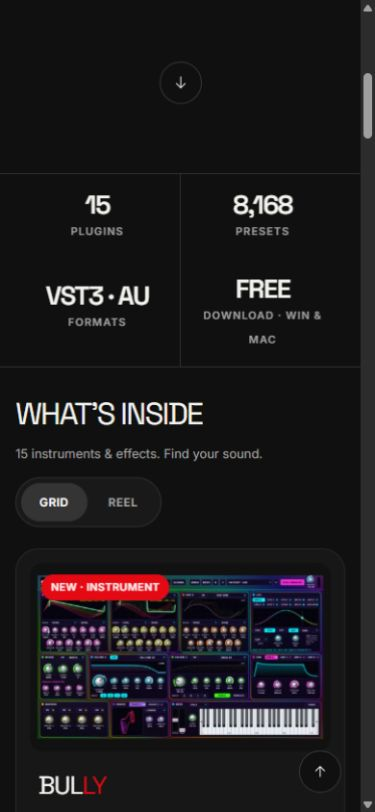
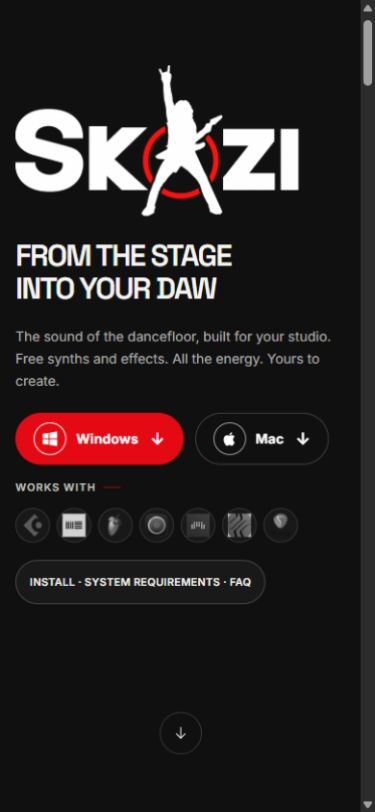
Focus phone hero and refine musical intro animation

diff --git a/docs/site-experience.css b/docs/site-experience.css
@@ -288,3 +288,28 @@ footer .wrap{font-size:12px}
 
 .hero-wave{bottom:96px}
 @media(max-width:700px){.hero-wave{bottom:72px}}
+
+/* A focused phone Hero; artist playback is reserved for larger screens. */
+@media(max-width:600px){
+ .hero .artist-shot{display:none}
+ .hero .wrap{grid-template-columns:1fr}
+ .hero h1.hero-logo{max-width:300px;width:100%;margin-bottom:24px}
+ .hero-statement{font-size:clamp(28px,8vw,36px)}
+ .hero .lead{font-size:14px;line-height:1.65;margin:18px 0}
+ .hero .ctas{margin:22px 0 16px}
+ .hero .hero-info-trigger{margin-top:18px}
+}
+/* A restrained audio-orbit opening: no fake progress or extra waiting. */
+#site-intro{background:radial-gradient(ellipse at 50% 50%,#210d10 0%,#100c0d 34%,#090909 70%)}
+.intro-halo{width:min(580px,84vw);border:1px solid #e5091438;animation:intro-breathe 2.4s ease-in-out infinite;box-shadow:0 0 90px #e509141c,inset 0 0 60px #e5091412}
+.intro-halo:before{inset:-18px;border:0;background:conic-gradient(from 0deg,transparent 0deg,#e50914 75deg,transparent 105deg,transparent 190deg,#e50914aa 265deg,transparent 295deg);mask:radial-gradient(farthest-side,transparent calc(100% - 2px),#000 0);animation:intro-orbit 5s linear infinite}
+.intro-halo:after{inset:18px;border:1px dashed #e5091466;animation:intro-orbit 14s linear reverse infinite}
+.intro-mark img{animation:intro-reveal .7s cubic-bezier(.22,1,.36,1) both}
+.intro-equalizer{opacity:.65;gap:6px}.intro-equalizer i{width:2px;border-radius:999px}
+.intro-skip{border-radius:999px;color:#ccc;border-color:#ffffff26;font:500 11px Inter,sans-serif;letter-spacing:.06em;transition:border-color .2s,color .2s}
+.intro-skip:hover{color:#fff;border-color:var(--acid)}.intro-skip:focus-visible{outline:2px solid #fff;outline-offset:4px}
+.intro-soft .intro-halo{animation:none;opacity:.35}.intro-soft .intro-halo:before{animation-duration:12s}
+.intro-soft .intro-mark img{animation:intro-reveal .3s ease-out both}
+@keyframes intro-breathe{0%,100%{transform:scale(.97);opacity:.65}50%{transform:scale(1.03);opacity:1}}
+@keyframes intro-reveal{from{opacity:0;filter:blur(7px);transform:translateY(8px)}to{opacity:1;filter:blur(0);transform:translateY(0)}}
+@media(prefers-reduced-motion:reduce){.intro-mark img,.intro-soft .intro-mark img,.intro-halo,.intro-halo:before,.intro-halo:after{animation:none}}

diff --git a/docs/site-experience.js b/docs/site-experience.js
@@ -37,6 +37,8 @@
         status.textContent=error.name==='NotAllowedError'?'Playback was blocked. Activate Enable sound to retry.':'This audio preview is unavailable.';
       }
     }
+    const phoneLayout=matchMedia('(max-width:600px)');
+    phoneLayout.addEventListener('change',event=>{if(event.matches){setEnabled(false);stop();}});
     soundButton.addEventListener('click',()=>{
       setEnabled(!enabled);
       if(enabled)play(artist.dataset.active||'skazi');

diff --git a/docs/review/QA-FOLLOWUP.md b/docs/review/QA-FOLLOWUP.md
@@ -43,3 +43,9 @@ These checks cover the revised pairs, not every possible rendered state.
 - Installer execution is outside this website QA pass. No claim of full WCAG certification or all-browser compatibility is made.
 
 Intro playback no longer uses a stored first-visit preference.
+
+## Phone layout and intro polish
+
+- Artist image and audio controls are hidden at widths up to 600px; verified hidden at 390px and visible at 768px. Switching into phone layout disables and stops playback.
+- Phone Hero retains downloads, DAW compatibility and guide, with no horizontal overflow in the checked 390px viewport.
+- Intro adds layered red orbit rings and a soft logo reveal without increasing the existing dwell time. Reloads stay subdued; Skip and reduced-motion styles remain.
